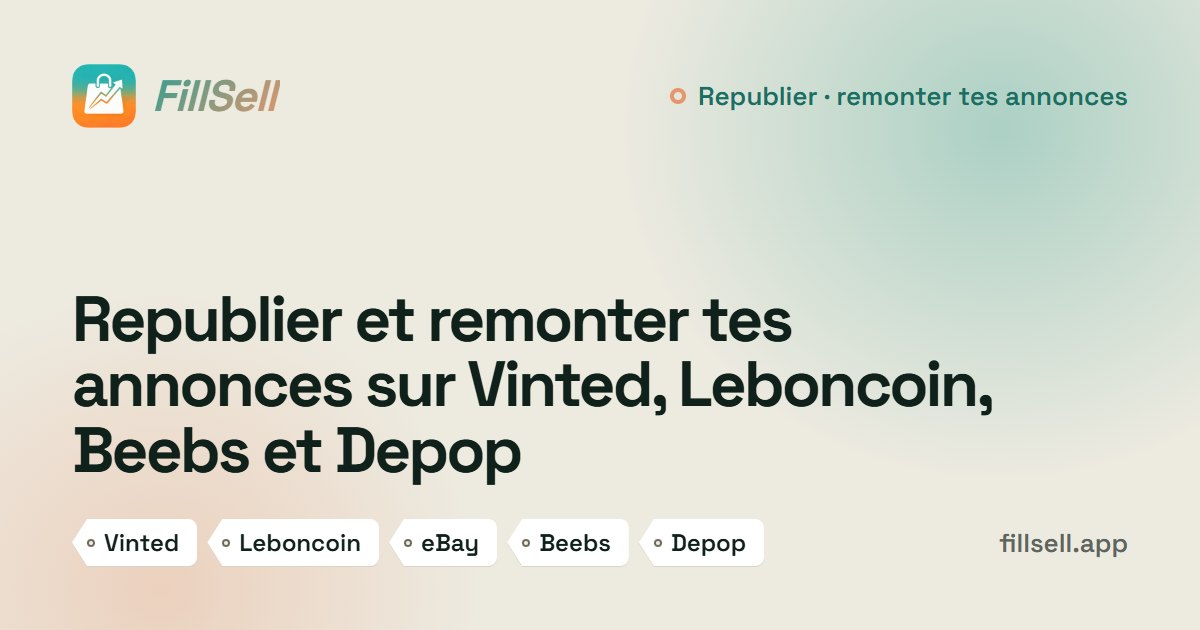
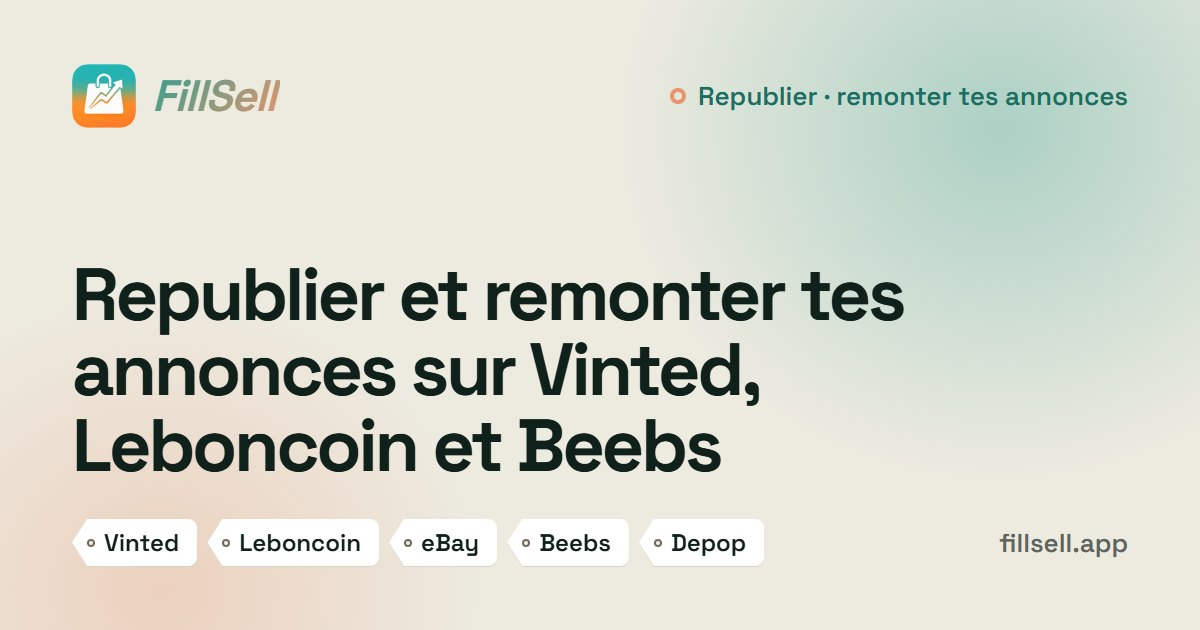
feat(site) : VARIANTE (b) — republication automatique Depop pas encore activable dans l'app : republication_auto: false pour Depop (plateformes.yml, le geste unique), vidéo version B (video-json.mjs B), brief des concurrents ([R-DEPOP] et valeur « republication » de FillSell), cinq articles du blog 
Claude-Session: https://claude.ai/code/session_0189oy6kwofZaiH7MKiRB7KR

Changed region(s): [[0.0617, 0.4222, 0.8325, 0.7841]]

diff --git a/src/blog/republier-annonces-vinted.md b/src/blog/republier-annonces-vinted.md
@@ -3,7 +3,7 @@ title: "Republier une annonce Vinted : quand et comment la remonter"
 description: "Vinted n'a pas de bouton pour republier : on supprime l'annonce, puis on la remet en ligne. Après une semaine, sur une annonce qui stagne, jamais en rafale."
 date: "2026-10-09"
 lang: "fr"
-faq: [{"q":"Comment republier une annonce sur Vinted ?","a":"Vinted n'a pas de bouton pour republier une annonce en ligne : son bouton « Republier » n'apparaît qu'après une commande annulée par l'acheteur avant l'envoi. À la main, préparez une nouvelle annonce identique en brouillon, avec vos photos d'origine, supprimez l'ancienne, puis publiez le brouillon. Avec FillSell, l'extension Chrome fait ces gestes sur votre ordinateur, d'un appui depuis votre téléphone ou, selon votre formule, au créneau que vous avez choisi."},{"q":"Au bout de combien de temps faut-il republier une annonce Vinted ?","a":"Aucun texte de Vinted ne fixe de délai. Attendez au moins une semaine : les premiers jours, votre annonce profite déjà de sa nouveauté, et une republication trop rapprochée est le geste qui se remarque. Republiez ensuite les annonces qui ne récoltent plus ni vues ni favoris, pas tout votre dressing par réflexe. La republication automatique de FillSell ne remonte jamais une annonce de moins d'une semaine, ni deux fois la même en 24 heures."},{"q":"Vaut-il mieux republier ou booster une annonce Vinted ?","a":"Tout dépend de ses favoris. Le Boost, payant, fait apparaître la même annonce plus haut pendant 3 ou 7 jours, ou jusqu'à sa vente, et lui laisse ses vues et ses favoris : il sert une annonce qui intéresse déjà. Republier crée une annonce neuve sans option achetée à Vinted, mais remet vues et favoris à zéro : c'est le bon geste pour une annonce qui ne bouge plus."},{"q":"Perd-on ses favoris quand on republie une annonce Vinted ?","a":"Oui. Les favoris, les vues et le lien appartiennent à l'ancienne annonce, qui est supprimée. Si un article a déjà plusieurs favoris, faites d'abord une offre aux membres qui l'ont aimé avec le bouton « Faire une offre », ou baissez son prix : vos abonnés en sont avertis et les favoris restent en place."},{"q":"Republier une annonce Vinted garantit-il plus de vues ?","a":"Non. Vinted cite la date de mise en ligne parmi ses critères de classement et met en avant les nouvelles annonces, mais il tient aussi compte du prix, de l'état, de la description, des photos et de l'intérêt déjà suscité. Une annonce mal photographiée ou trop chère le restera après sa republication : corrigez d'abord ce qui bloque, puis remontez-la."},{"q":"Republier ses annonces Vinted est-il autorisé ?","a":"Les conditions de Vinted ne parlent pas de « republier » : elles interdisent de « supprimer et ajouter à nouveau plusieurs fois le même Article ou plusieurs Articles en gros », et encadrent les outils logiciels externes. D'où la règle de prudence : ne republier que des annonces qui stagnent, jamais la même à répétition, jamais tout un dressing d'un coup. FillSell n'est ni affilié à Vinted ni approuvé par Vinted, et aucun outil ne peut garantir qu'un compte ne sera jamais restreint."},{"q":"Peut-on republier ses annonces Vinted automatiquement ?","a":"Oui, avec FillSell, selon votre formule. Vous réglez une fois les jours, le créneau (matin, midi, soir ou sur mesure) et l'ancienneté minimale, une semaine au moins ; l'extension Chrome FillSell remonte ensuite vos annonces sur Vinted, Leboncoin, Beebs et Depop, une à une, dans votre propre session, sans jamais vous demander votre mot de passe. Votre ordinateur doit être allumé avec Chrome ouvert pendant le créneau, et tout se coupe d'un geste. Sinon, une annonce remonte d'un appui."},{"q":"Comment remonter une annonce Vinted sans payer ?","a":"Trois gestes ne coûtent rien à Vinted : republier l'annonce à la main (vendre n'y coûte rien à un particulier), baisser son prix pour prévenir vos abonnés, et faire une offre aux membres qui l'ont mise en favori. Le Boost et la Vitrine, eux, sont payants. Vérifiez aussi la première photo et le prix : republier ne corrige ni l'une ni l'autre."}]
+faq: [{"q":"Comment republier une annonce sur Vinted ?","a":"Vinted n'a pas de bouton pour republier une annonce en ligne : son bouton « Republier » n'apparaît qu'après une commande annulée par l'acheteur avant l'envoi. À la main, préparez une nouvelle annonce identique en brouillon, avec vos photos d'origine, supprimez l'ancienne, puis publiez le brouillon. Avec FillSell, l'extension Chrome fait ces gestes sur votre ordinateur, d'un appui depuis votre téléphone ou, selon votre formule, au créneau que vous avez choisi."},{"q":"Au bout de combien de temps faut-il republier une annonce Vinted ?","a":"Aucun texte de Vinted ne fixe de délai. Attendez au moins une semaine : les premiers jours, votre annonce profite déjà de sa nouveauté, et une republication trop rapprochée est le geste qui se remarque. Republiez ensuite les annonces qui ne récoltent plus ni vues ni favoris, pas tout votre dressing par réflexe. La republication automatique de FillSell ne remonte jamais une annonce de moins d'une semaine, ni deux fois la même en 24 heures."},{"q":"Vaut-il mieux republier ou booster une annonce Vinted ?","a":"Tout dépend de ses favoris. Le Boost, payant, fait apparaître la même annonce plus haut pendant 3 ou 7 jours, ou jusqu'à sa vente, et lui laisse ses vues et ses favoris : il sert une annonce qui intéresse déjà. Republier crée une annonce neuve sans option achetée à Vinted, mais remet vues et favoris à zéro : c'est le bon geste pour une annonce qui ne bouge plus."},{"q":"Perd-on ses favoris quand on republie une annonce Vinted ?","a":"Oui. Les favoris, les vues et le lien appartiennent à l'ancienne annonce, qui est supprimée. Si un article a déjà plusieurs favoris, faites d'abord une offre aux membres qui l'ont aimé avec le bouton « Faire une offre », ou baissez son prix : vos abonnés en sont avertis et les favoris restent en place."},{"q":"Republier une annonce Vinted garantit-il plus de vues ?","a":"Non. Vinted cite la date de mise en ligne parmi ses critères de classement et met en avant les nouvelles annonces, mais il tient aussi compte du prix, de l'état, de la description, des photos et de l'intérêt déjà suscité. Une annonce mal photographiée ou trop chère le restera après sa republication : corrigez d'abord ce qui bloque, puis remontez-la."},{"q":"Republier ses annonces Vinted est-il autorisé ?","a":"Les conditions de Vinted ne parlent pas de « republier » : elles interdisent de « supprimer et ajouter à nouveau plusieurs fois le même Article ou plusieurs Articles en gros », et encadrent les outils logiciels externes. D'où la règle de prudence : ne republier que des annonces qui stagnent, jamais la même à répétition, jamais tout un dressing d'un coup. FillSell n'est ni affilié à Vinted ni approuvé par Vinted, et aucun outil ne peut garantir qu'un compte ne sera jamais restreint."},{"q":"Peut-on republier ses annonces Vinted automatiquement ?","a":"Oui, avec FillSell, selon votre formule. Vous réglez une fois les jours, le créneau (matin, midi, soir ou sur mesure) et l'ancienneté minimale, une semaine au moins ; l'extension Chrome FillSell remonte ensuite vos annonces sur Vinted, Leboncoin et Beebs (sur Depop, d'un appui), une à une, dans votre propre session, sans jamais vous demander votre mot de passe. Votre ordinateur doit être allumé avec Chrome ouvert pendant le créneau, et tout se coupe d'un geste. Sinon, une annonce remonte d'un appui."},{"q":"Comment remonter une annonce Vinted sans payer ?","a":"Trois gestes ne coûtent rien à Vinted : republier l'annonce à la main (vendre n'y coûte rien à un particulier), baisser son prix pour prévenir vos abonnés, et faire une offre aux membres qui l'ont mise en favori. Le Boost et la Vitrine, eux, sont payants. Vérifiez aussi la première photo et le prix : republier ne corrige ni l'une ni l'autre."}]
 ---
 
 Republier une annonce Vinted, c'est la supprimer puis la remettre en ligne à l'identique : elle repart avec une date de mise en ligne neuve, un critère que Vinted cite dans son classement, mais ses vues et ses favoris repartent de zéro. Le bon moment, c'est après une semaine au moins, sur une annonce qui ne récolte plus rien, et jamais en rafale : les conditions de Vinted interdisent de supprimer et remettre en ligne le même article à répétition, ou des articles en gros. Vous pouvez le faire à la main, payer un Boost qui garde vos favoris, ou laisser l'extension Chrome FillSell remonter vos annonces, d'un appui ou, selon votre formule, au créneau que vous choisissez.
@@ -18,7 +18,7 @@ Republier une annonce Vinted, c'est la supprimer puis la remettre en ligne à l'
 - Republier crée une annonce neuve, avec une nouvelle date et un nouveau lien ; les vues et les favoris de l'ancienne annonce sont perdus.
 - Le Boost de Vinted, payant, fait remonter la même annonce pendant 3 ou 7 jours, ou jusqu'à sa vente, sans toucher à ses favoris.
 - Une annonce déjà mise en favori se relance mieux par une offre aux membres intéressés que par une republication.
-- Avec FillSell, selon votre formule, vos annonces remontent toutes seules sur Vinted, Leboncoin, Beebs et Depop, aux jours et au créneau que vous choisissez, ordinateur allumé : jamais avant une semaine en ligne, jamais deux fois la même en 24 heures.
+- Avec FillSell, selon votre formule, vos annonces remontent toutes seules sur Vinted, Leboncoin et Beebs (sur Depop, d'un appui), aux jours et au créneau que vous choisissez, ordinateur allumé : jamais avant une semaine en ligne, jamais deux fois la même en 24 heures.
 
 ## Republier, remonter, booster : de quoi parle-t-on ?
 
@@ -130,7 +130,7 @@ Vos annonces créées directement sur Vinted ne sont pas oubliées : un appui su
 
 ### Toutes seules, au créneau que vous choisissez
 
-Selon votre formule, vous réglez une fois, plateforme par plateforme. Ensuite, vos annonces remontent toutes seules sur Vinted, Leboncoin, Beebs et Depop, pendant que vous faites autre chose.
+Selon votre formule, vous réglez une fois, plateforme par plateforme. Ensuite, vos annonces remontent toutes seules sur Vinted, Leboncoin et Beebs (sur Depop, d'un appui), pendant que vous faites autre chose.
 
 - **Le créneau** : matin (8 h à 10 h), midi (12 h à 14 h), soir (19 h à 22 h) ou sur mesure, à votre heure locale.
 - **Les jours actifs** : tous les jours, ou seulement ceux que vous cochez.
@@ -193,7 +193,7 @@ Les conditions de Vinted ne parlent pas de « republier » : elles interdisent d
 
 ### Peut-on republier ses annonces Vinted automatiquement ?
 
-Oui, avec FillSell, selon votre formule. Vous réglez une fois les jours, le créneau (matin, midi, soir ou sur mesure) et l'ancienneté minimale, une semaine au moins ; l'extension Chrome FillSell remonte ensuite vos annonces sur Vinted, Leboncoin, Beebs et Depop, une à une, dans votre propre session, sans jamais vous demander votre mot de passe. Votre ordinateur doit être allumé avec Chrome ouvert pendant le créneau, et tout se coupe d'un geste. Sinon, une annonce remonte d'un appui.
+Oui, avec FillSell, selon votre formule. Vous réglez une fois les jours, le créneau (matin, midi, soir ou sur mesure) et l'ancienneté minimale, une semaine au moins ; l'extension Chrome FillSell remonte ensuite vos annonces sur Vinted, Leboncoin et Beebs (sur Depop, d'un appui), une à une, dans votre propre session, sans jamais vous demander votre mot de passe. Votre ordinateur doit être allumé avec Chrome ouvert pendant le créneau, et tout se coupe d'un geste. Sinon, une annonce remonte d'un appui.
 
 ### Comment remonter une annonce Vinted sans payer ?
 

diff --git a/src/blog/combien-de-plateformes-pour-vendre.md b/src/blog/combien-de-plateformes-pour-vendre.md
@@ -134,7 +134,7 @@ Une photo, cinq plateformes, zéro ressaisie. Tout ce qui précède bute sur un 
 - **Vous cochez, l'extension dépose.** Chaque plateforme reçoit une annonce adaptée à ses rubriques : catégorie, taille, couleur, colis. L'extension remplit les formulaires une annonce après l'autre, à un rythme humain. S'il manque une information, l'app vous la demande. Et un lot entier part d'un coup : vous choisissez les plateformes, FillSell prépare, vous vérifiez, c'est parti.
 - **Votre stock déjà en ligne, rangé d'un appui.** « Synchroniser » fait entrer dans votre stock vos annonces déjà en ligne sur Vinted, Leboncoin, eBay, Beebs et Depop. Un même article vu sur plusieurs plateformes devient une seule fiche : FillSell compare les photos et le titre, et vous pose la question au moindre doute. Gratuit et sans limite.
 - **Vendu ici, retiré là-bas.** Quand Vinted ou eBay marque l'article vendu, FillSell enregistre la vente tout seul. Sur Leboncoin et Beebs, vous la confirmez d'un appui. FillSell retire ensuite les autres annonces de l'article qu'une preuve relie à la fiche, sur Vinted, Leboncoin, eBay, Beebs et Depop. Au moindre doute sur une annonce, il vous demande « Déjà vendu ? » avant d'y toucher. Vendu ailleurs ? Votre annonce Depop liée à l'article est retirée : c'est précisément ce que demandent les conditions de Depop.
-- **Vos annonces remontent toutes seules**, selon votre formule, sur Vinted, Leboncoin, Beebs et Depop, les jours et au créneau que vous choisissez, pendant que vous faites autre chose, ordinateur allumé. Sinon, une annonce remonte d'un appui. FillSell espace les republications à un rythme humain, et vous coupez tout d'un geste.
+- **Vos annonces remontent toutes seules**, selon votre formule, sur Vinted, Leboncoin et Beebs (sur Depop, d'un appui), les jours et au créneau que vous choisissez, pendant que vous faites autre chose, ordinateur allumé. Sinon, une annonce remonte d'un appui. FillSell espace les republications à un rythme humain, et vous coupez tout d'un geste.
 - **Jamais vos mots de passe.** Vous restez connecté(e) à vos comptes dans Chrome, comme d'habitude, et l'extension travaille dans ces sessions. Pour Depop, vous autorisez l'accès d'un clic dans l'extension. Pour eBay France, vous reliez votre compte sur la page officielle d'eBay : vos annonces eBay partent alors par l'API officielle d'eBay, même ordinateur éteint.
 - **Vos chiffres, plateforme par plateforme.** L'onglet Stats montre vos ventes et votre profit par plateforme. Votre marge se calcule toute seule, et un article dont vous ignorez le prix d'achat est écarté du calcul plutôt que compté comme gratuit.
 

diff --git a/src/blog/cross-listing-vinted-leboncoin.md b/src/blog/cross-listing-vinted-leboncoin.md
@@ -23,7 +23,7 @@ Avec FillSell, Lens rédige l'annonce à partir d'une photo, l'extension Chrome 
 - Pour un particulier, vendre est gratuit des deux côtés : les frais de service sont payés par l'acheteur, en règle générale 5 % + 0,70 € sur Vinted, et 0,70 € + 5 % du prix en livraison sur Leboncoin.
 - Le vrai danger du cross-listing, c'est la double vente. Vinted demande lui-même de masquer ou de supprimer une annonce dont l'article s'est vendu ailleurs.
 - Avec FillSell, une vente Vinted est enregistrée toute seule et l'annonce Leboncoin du même article est retirée ; une vente Leboncoin se confirme d'un appui, puis l'annonce Vinted s'en va. Au moindre doute : « Déjà vendu ? ».
-- Selon votre formule, vos annonces remontent toutes seules sur Vinted, Leboncoin, Beebs et Depop, les jours et sur le créneau que vous choisissez, ordinateur allumé ; sinon, une annonce remonte d'un appui.
+- Selon votre formule, vos annonces remontent toutes seules sur Vinted, Leboncoin et Beebs (sur Depop, d'un appui), les jours et sur le créneau que vous choisissez, ordinateur allumé ; sinon, une annonce remonte d'un appui.
 
 ## Peut-on vendre le même article sur Vinted et Leboncoin en même temps ?
 
@@ -138,7 +138,7 @@ Sur Vinted, faire remonter un article passe par le Boost, payant, de 3 ou 7 jour
 FillSell fait autre chose : il republie. L'annonce est retirée puis remise en ligne : elle repart en haut des résultats, mais ses vues et ses favoris repartent de zéro. L'extension, elle, ne souscrit jamais d'option payante à votre place.
 
 - **D'un appui**, pour une annonce qui s'essouffle.
-- **Automatiquement, sur Vinted, Leboncoin, Beebs et Depop, selon votre formule** : vos annonces remontent toutes seules, les jours et sur le créneau que vous choisissez, pendant que vous faites autre chose. Ordinateur allumé.
+- **Automatiquement, sur Vinted, Leboncoin et Beebs, selon votre formule (sur Depop, d'un appui)** : vos annonces remontent toutes seules, les jours et sur le créneau que vous choisissez, pendant que vous faites autre chose. Ordinateur allumé.
 - **À un rythme humain** : les republications se répartissent sur votre créneau, jamais en rafale ; une même annonce n'est jamais republiée deux fois en 24 heures ; vous coupez tout d'un geste, quand vous voulez.
 
 Pourquoi tant de soin ? Parce que les conditions de Vinted interdisent de « supprimer et ajouter à nouveau plusieurs fois le même Article ou plusieurs Articles en gros ». FillSell espace donc ses gestes pour protéger votre compte. Tout sur la [republication de vos annonces](page:fonctions/republication).

diff --git a/src/blog/sell-on-leboncoin-in-english.md b/src/blog/sell-on-leboncoin-in-english.md
@@ -178,7 +178,7 @@ When an item sells on Leboncoin, FillSell asks you to confirm the sale with one 
 
 On Leboncoin, climbing back to the top of the results is a paid option (“Remonter en tête de liste”). FillSell does something else: it reposts. The listing is removed and put back online, so it goes back to the top of the results — its views and favourites start from zero. FillSell never buys the paid option.
 
-Depending on your subscription, your listings bump themselves back up on Vinted, Leboncoin, Beebs, and Depop, on the days and in the time slot you choose, with your computer on; otherwise, you repost a listing with one tap. FillSell spaces out your reposts at a human pace to protect your account, and you switch it all off in one tap. More on [automatic reposting (in French)](page:fr:fonctions/republication).
+Depending on your subscription, your listings bump themselves back up on Vinted, Leboncoin, and Beebs (Depop: one tap), on the days and in the time slot you choose, with your computer on; otherwise, you repost a listing with one tap. FillSell spaces out your reposts at a human pace to protect your account, and you switch it all off in one tap. More on [automatic reposting (in French)](page:fr:fonctions/republication).
 
 ### One honest note
 
@@ -192,7 +192,7 @@ The extension's small panel, and its Chrome Web Store page, are in French for no
 | Post on Leboncoin | Leboncoin's form, in French | Tick Leboncoin in the app; the extension fills in the form |
 | Put the same item on other marketplaces | Write and post each listing again | One listing, five marketplaces: Vinted, Leboncoin, eBay, Beebs, and Depop |
 | An item sells | Find and delete the other listings yourself | Confirm with one tap; proven copies come down, “Already sold?” when in doubt |
-| Stay visible | Pay for a bump, or delete and repost by hand | One-tap reposting, or automatic reposting on your schedule depending on your subscription (Vinted, Leboncoin, Beebs, and Depop) |
+| Stay visible | Pay for a bump, or delete and repost by hand | One-tap reposting, or automatic reposting on your schedule depending on your subscription (Vinted, Leboncoin, and Beebs; Depop: one tap) |
 | Know what you earn | A spreadsheet | Stock, sales and margin calculated for you |
 
 ## Beyond Leboncoin: the same item on five marketplaces
